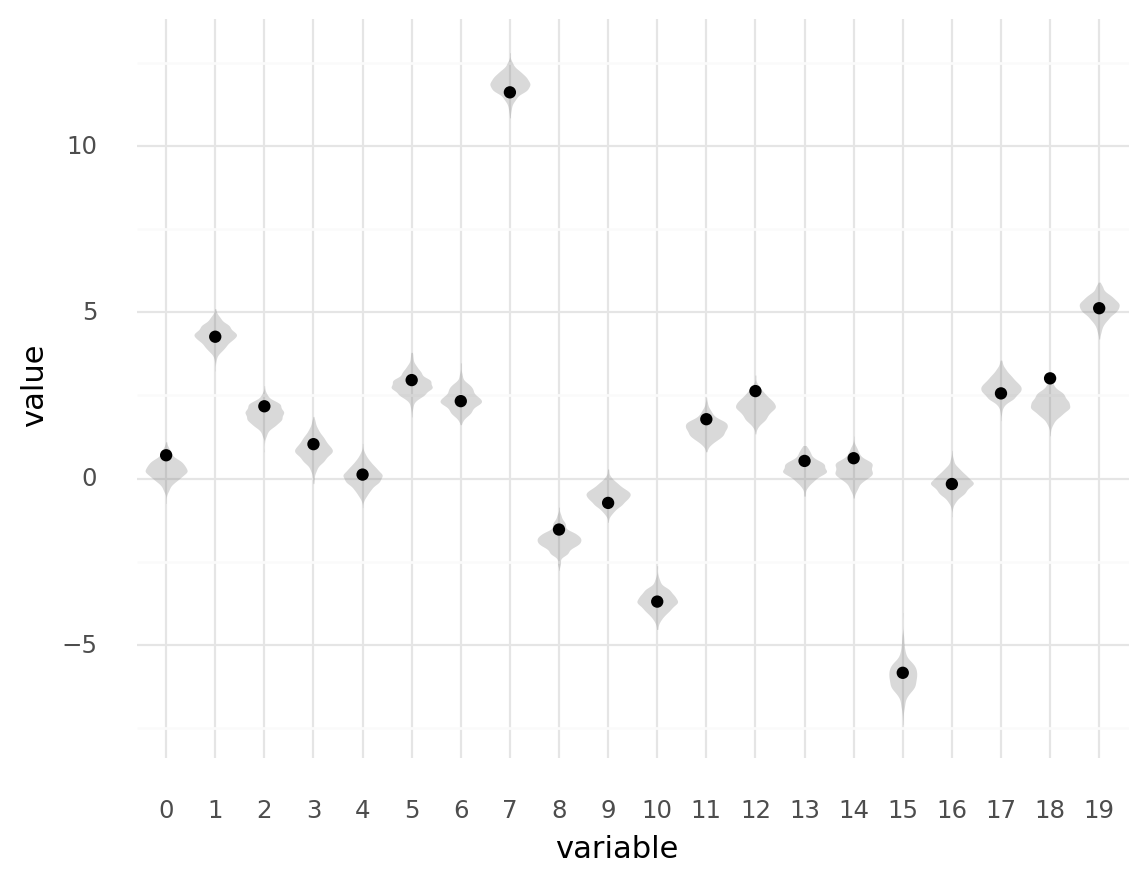
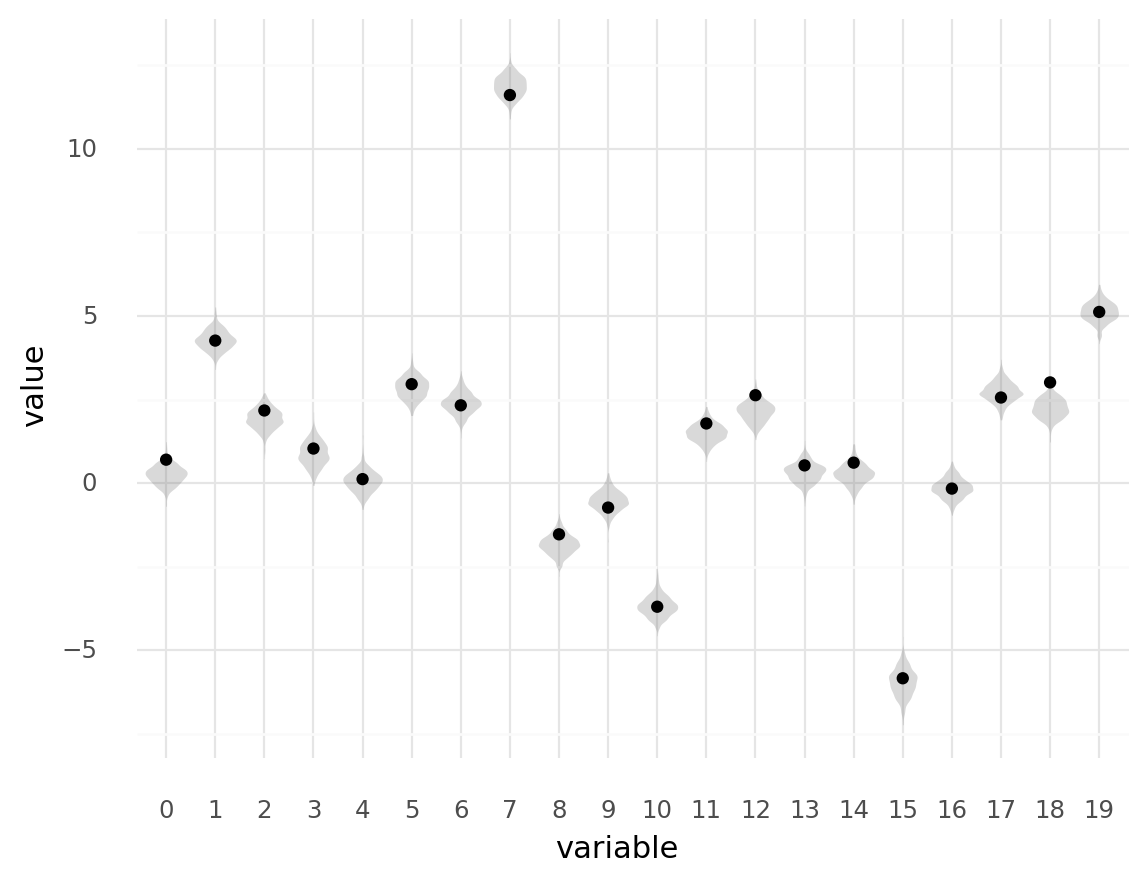
analysis: test not replacing y observed data in new predictions

diff --git a/analysis/999_011_using-pymc3-data.md b/analysis/999_011_using-pymc3-data.md
@@ -155,7 +155,7 @@ with pm.Model(coords=coords) as model:
   100.00% [16000/16000 00:14<00:00 Sampling 4 chains, 0 divergences]
 </div>
 
-    Sampling 4 chains for 2_000 tune and 2_000 draw iterations (8_000 + 8_000 draws total) took 15 seconds.
+    Sampling 4 chains for 2_000 tune and 2_000 draw iterations (8_000 + 8_000 draws total) took 16 seconds.
     The number of effective samples is smaller than 25% for some parameters.
 
 ```python
@@ -269,7 +269,7 @@ post_df = pd.DataFrame(
 
 ![png](999_011_using-pymc3-data_files/999_011_using-pymc3-data_12_0.png)
 
-    <ggplot: (8767793637250)>
+    <ggplot: (8776007919879)>
 
 ## Example with hierarhcical model
 
@@ -569,7 +569,6 @@ with model:
     pm.set_data(
         {
             "x_shared": extract_data(new_data.x),
-            "y_shared": extract_data(new_data.y),
             "group_idx": extract_data(new_data.group_idx).astype(int),
         }
     )
@@ -593,7 +592,7 @@ with model:
         }
     </style>
   <progress value='500' class='' max='500' style='width:300px; height:20px; vertical-align: middle;'></progress>
-  100.00% [500/500 00:03<00:00]
+  100.00% [500/500 00:04<00:00]
 </div>
 
 ```python
@@ -612,7 +611,7 @@ new_data = dphelp.make_cat(new_data, "index", ordered=True)
 
 ![png](999_011_using-pymc3-data_files/999_011_using-pymc3-data_18_0.png)
 
-    <ggplot: (8767783807684)>
+    <ggplot: (8775976930205)>
 
 ---
 
@@ -621,7 +620,7 @@ notebook_toc = time()
 print(f"execution time: {(notebook_toc - notebook_tic) / 60:.2f} minutes")
 ```
 
-    execution time: 0.78 minutes
+    execution time: 0.80 minutes
 
 ```python
 %load_ext watermark
@@ -648,7 +647,7 @@ print(f"execution time: {(notebook_toc - notebook_tic) / 60:.2f} minutes")
 
     matplotlib: 3.3.3
     plotnine  : 0.7.1
-    numpy     : 1.19.5
-    pandas    : 1.2.0
-    arviz     : 0.11.0
     pymc3     : 3.9.3
+    pandas    : 1.2.0
+    numpy     : 1.19.5
+    arviz     : 0.11.0

diff --git a/analysis/_template.md b/analysis/_template.md
@@ -21,16 +21,12 @@ notebook_tic = time()
 warnings.simplefilter(action="ignore", category=UserWarning)
 
 gg.theme_set(gg.theme_minimal())
-%config InlineBackend.figure_format = 'retina'
+%config InlineBackend.figure_format = "retina"
 
 RANDOM_SEED = 847
 np.random.seed(RANDOM_SEED)
 
 pymc3_cache_dir = Path("pymc3_model_cache")
-```
-
-```python
-
 ```
 
 ```python
